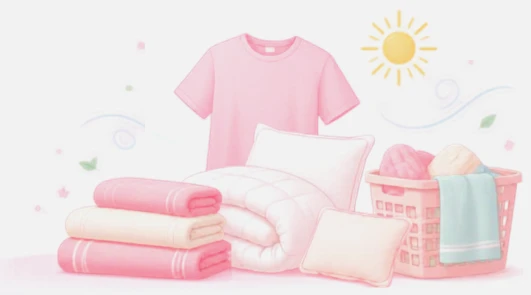
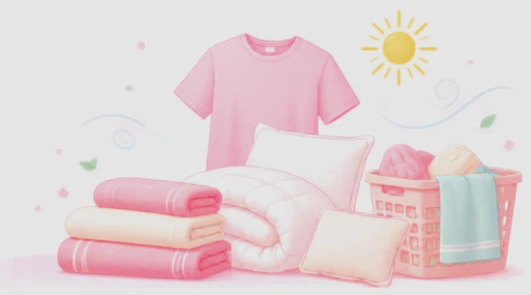
季節のお知らせカードのPCレイアウトを再調整
- カード内を左70%(見出し・本文・対象品・ボタン)/右30%(イラスト)の2カラムに変更
- イラストを約1.9倍に拡大しカード右側中央に配置、色をさらに濃く調整
- ボタンをカード中央ではなく文章ブロックの左端に揃え
- スマホは見出し→イラスト→本文→ボタンの順の1カラムのまま維持
- CSS変更に伴いキャッシュバージョンを更新

diff --git a/style.css b/style.css
@@ -1900,24 +1900,27 @@ img {
 
 .seasonal-notice__card .btn-pair {
   flex-direction: row;
-  justify-content: center;
+  justify-content: flex-start;
   flex-wrap: wrap;
 }
 
 .seasonal-notice__content {
   display: grid;
-  grid-template-columns: 1fr auto;
+  grid-template-columns: minmax(0, 1fr) minmax(300px, 380px);
   align-items: center;
-  gap: 24px;
+  gap: 32px;
 }
 
 .seasonal-notice__illust {
   display: flex;
   justify-content: center;
+  align-items: center;
+  height: 100%;
 }
 
 .seasonal-notice__illust img {
-  width: 200px;
+  width: 100%;
+  max-width: 380px;
   height: auto;
   display: block;
 }
@@ -1925,6 +1928,11 @@ img {
 @media (max-width: 960px) {
   .seasonal-notice__card {
     padding: 26px 26px 26px 30px;
+  }
+
+  .seasonal-notice__content {
+    grid-template-columns: minmax(0, 1fr) minmax(240px, 300px);
+    gap: 24px;
   }
 }
 

diff --git a/index.html b/index.html
@@ -39,7 +39,7 @@
   <meta name="twitter:description" content="五所川原市を中心に青森県津軽地方一円で無料集配を行うクリーニング専門店。LINEで簡単予約。">
   <meta name="twitter:image"       content="https://cleaning-mamago.com/feature-banner.jpg">
 
-  <link rel="stylesheet" href="style.css?v=20260827b">
+  <link rel="stylesheet" href="style.css?v=20260827c">
   <link rel="preconnect" href="https://fonts.googleapis.com">
   <link href="https://fonts.googleapis.com/css2?family=Noto+Sans+JP:wght@400;700;900&display=swap" rel="stylesheet">
   <script src="scroll-clean.js" defer></script>

diff --git a/price.html b/price.html
@@ -38,7 +38,7 @@
   <meta name="twitter:description" content="クリーニングのママ号の料金表。青森県津軽地方対応の無料集配クリーニング専門店。">
   <meta name="twitter:image"       content="https://cleaning-mamago.com/feature-banner.jpg">
 
-  <link rel="stylesheet" href="style.css?v=20260827b">
+  <link rel="stylesheet" href="style.css?v=20260827c">
   <link rel="preconnect" href="https://fonts.googleapis.com">
   <link href="https://fonts.googleapis.com/css2?family=Noto+Sans+JP:wght@400;700;900&display=swap" rel="stylesheet">
   <script src="scroll-clean.js" defer></script>

diff --git a/price-futon.html b/price-futon.html
@@ -20,7 +20,7 @@
   <link rel="icon" type="image/png" sizes="32x32" href="favicon-32x32.png">
   <link rel="icon" type="image/png" sizes="16x16" href="favicon-16x16.png">
   <link rel="apple-touch-icon" sizes="180x180" href="apple-touch-icon.png">
-  <link rel="stylesheet" href="style.css?v=20260827b">
+  <link rel="stylesheet" href="style.css?v=20260827c">
   <link rel="preconnect" href="https://fonts.googleapis.com">
   <link href="https://fonts.googleapis.com/css2?family=Noto+Sans+JP:wght@400;700;900&display=swap" rel="stylesheet">
   <script src="scroll-clean.js" defer></script>

diff --git a/price-normal.html b/price-normal.html
@@ -20,7 +20,7 @@
   <link rel="icon" type="image/png" sizes="32x32" href="favicon-32x32.png">
   <link rel="icon" type="image/png" sizes="16x16" href="favicon-16x16.png">
   <link rel="apple-touch-icon" sizes="180x180" href="apple-touch-icon.png">
-  <link rel="stylesheet" href="style.css?v=20260827b">
+  <link rel="stylesheet" href="style.css?v=20260827c">
   <link rel="preconnect" href="https://fonts.googleapis.com">
   <link href="https://fonts.googleapis.com/css2?family=Noto+Sans+JP:wght@400;700;900&display=swap" rel="stylesheet">
   <script src="scroll-clean.js" defer></script>

diff --git a/price-reform.html b/price-reform.html
@@ -20,7 +20,7 @@
   <link rel="icon" type="image/png" sizes="32x32" href="favicon-32x32.png">
   <link rel="icon" type="image/png" sizes="16x16" href="favicon-16x16.png">
   <link rel="apple-touch-icon" sizes="180x180" href="apple-touch-icon.png">
-  <link rel="stylesheet" href="style.css?v=20260827b">
+  <link rel="stylesheet" href="style.css?v=20260827c">
   <link rel="preconnect" href="https://fonts.googleapis.com">
   <link href="https://fonts.googleapis.com/css2?family=Noto+Sans+JP:wght@400;700;900&display=swap" rel="stylesheet">
   <script src="scroll-clean.js" defer></script>

diff --git a/price-special.html b/price-special.html
@@ -20,7 +20,7 @@
   <link rel="icon" type="image/png" sizes="32x32" href="favicon-32x32.png">
   <link rel="icon" type="image/png" sizes="16x16" href="favicon-16x16.png">
   <link rel="apple-touch-icon" sizes="180x180" href="apple-touch-icon.png">
-  <link rel="stylesheet" href="style.css?v=20260827b">
+  <link rel="stylesheet" href="style.css?v=20260827c">
   <link rel="preconnect" href="https://fonts.googleapis.com">
   <link href="https://fonts.googleapis.com/css2?family=Noto+Sans+JP:wght@400;700;900&display=swap" rel="stylesheet">
   <script src="scroll-clean.js" defer></script>
